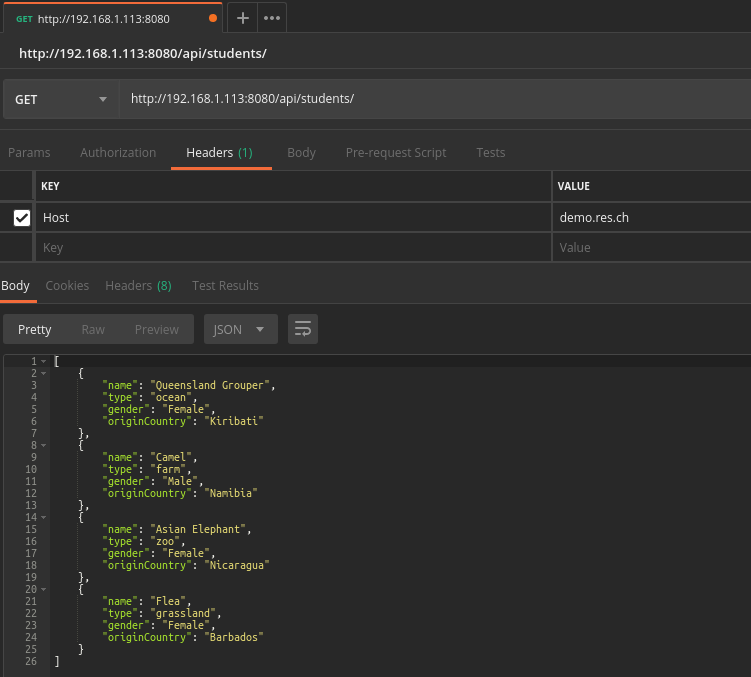
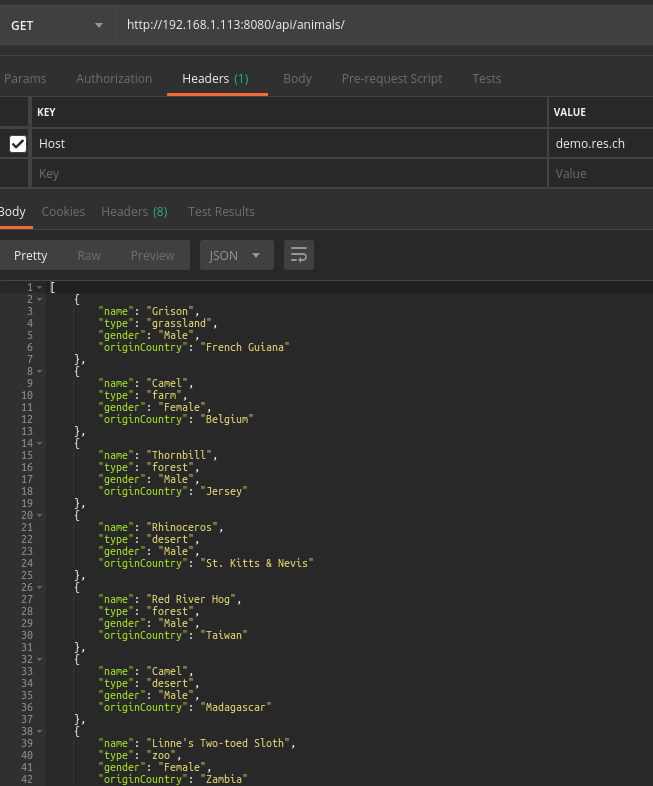
Documentation updated + step 4 finished

diff --git a/docker-images/express-image/src/index.js b/docker-images/express-image/src/index.js
@@ -5,25 +5,25 @@ var express = require('express');
 var app = express();
 
 app.get('/', function(req, res) {
-  res.send(generateStudents());
+  res.send(generateAnimals());
 });
 
 app.listen(3000, function () {
   console.log('Accepting HTTP requests on port 3000.')
 });
 
-function generateStudents() {
-  var numberOfFruits = chance.integer({
+function generateAnimals() {
+  var numberOfAnimals = chance.integer({
     min: 1,
     max: 20
   });
 
-  console.log(numberOfFruits);
+  console.log(numberOfAnimals);
 
   var animals = [];
   var types = ["ocean", "desert", "grassland", "forest", "farm", "pet", "zoo"];
 
-  for(var i = 0; i < numberOfFruits; ++i) {
+  for(var i = 0; i < numberOfAnimals; ++i) {
     var type = types[chance.integer({ min: 0, max: 6 })];
     var name = chance.animal({type: type});
     var gender = chance.gender();

diff --git a/docker-images/apache-php-image/content/js/animals.js b/docker-images/apache-php-image/content/js/animals.js
@@ -1,0 +1,13 @@
+$(function() {
+   console.log("loading animals");
+
+   function loadAnimals() {
+      $.getJSON("/api/animals/", function( animals ) {
+	     message = animals[0].name + " comes from " + animals[0].originCountry;
+	     $(".text-white-75").text(message);
+      });
+   };
+
+   loadAnimals();
+   setInterval( loadAnimals, 3000 );
+});

diff --git a/docker-images/apache-php-image/content/index.html b/docker-images/apache-php-image/content/index.html
@@ -101,6 +101,9 @@
   <!-- Custom scripts for this template -->
   <script src="js/creative.min.js"></script>
 
+  <!-- Custom script to load animals -->
+  <script src="js/animals.js"></script>
+
 </body>
 
 </html>

diff --git a/report-step3.md b/report-step3.md
@@ -26,8 +26,8 @@
    	#ErrorLog ${APACHE_LOG_DIR}/error.log
    	#CustomLog ${APACHE_LOG_DIR}/access.log combined
    
-   	ProxyPass "/api/students/" "http://172.17.0.3:3000/"
-   	ProxyPassReverse "/api/students/" "http://172.17.0.3:3000/"
+   	ProxyPass "/api/animals/" "http://172.17.0.3:3000/"
+   	ProxyPassReverse "/api/animals/" "http://172.17.0.3:3000/"
    
    	ProxyPass "/" "http://172.17.0.2:80/"
    	ProxyPassReverse "/" "http://172.17.0.2:80/"
@@ -80,8 +80,8 @@
     	#ErrorLog ${APACHE_LOG_DIR}/error.log
     	#CustomLog ${APACHE_LOG_DIR}/access.log combined
     
-    	ProxyPass "/api/students/" "http://172.17.0.3:3000/"
-    	ProxyPassReverse "/api/students/" "http://172.17.0.3:3000/"
+    	ProxyPass "/api/animals/" "http://172.17.0.3:3000/"
+    	ProxyPassReverse "/api/animals/" "http://172.17.0.3:3000/"
     
     	ProxyPass "/" "http://172.17.0.2:80/"
     	ProxyPassReverse "/" "http://172.17.0.2:80/"

diff --git a/report-step2.md b/report-step2.md
@@ -60,25 +60,25 @@
     var app = express();
 
     app.get('/', function(req, res) {
-      res.send(generateStudents());
+      res.send(generateAnimals());
     });
 
     app.listen(3000, function () {
       console.log('Accepting HTTP requests on port 3000.')
     });
 
-    function generateStudents() {
-      var numberOfFruits = chance.integer({
+    function generateAnimals() {
+      var numberOfAnimals = chance.integer({
         min: 1,
         max: 20
       });
 
-      console.log(numberOfFruits);
+      console.log(numberOfAnimals);
 
       var animals = [];
       var types = ["ocean", "desert", "grassland", "forest", "farm", "pet", "zoo"];
 
-      for(var i = 0; i < numberOfFruits; ++i) {
+      for(var i = 0; i < numberOfAnimals; ++i) {
         var type = types[chance.integer({ min: 0, max: 6 })];
         var name = chance.animal({type: type});
         var gender = chance.gender();

diff --git a/report-step4.md b/report-step4.md
@@ -1,0 +1,25 @@
+# Report Step 4
+
+1. ```javascript
+   $(function() {
+      console.log("loading animals");
+   
+      function loadAnimals() {
+         $.getJSON("/api/animals/", function( animals ) {
+   	     message = animals[0].name + " comes from " + animals[0].originCountry;
+   	     $(".text-white-75").text(message);
+         });
+      };
+   
+      loadAnimals();
+      setInterval( loadAnimals, 3000 );
+   });
+   ```
+
+2. ```html
+     <!-- Custom script to load animals -->
+     <script src="js/animals.js"></script>
+   ```
+
+3. 
+
